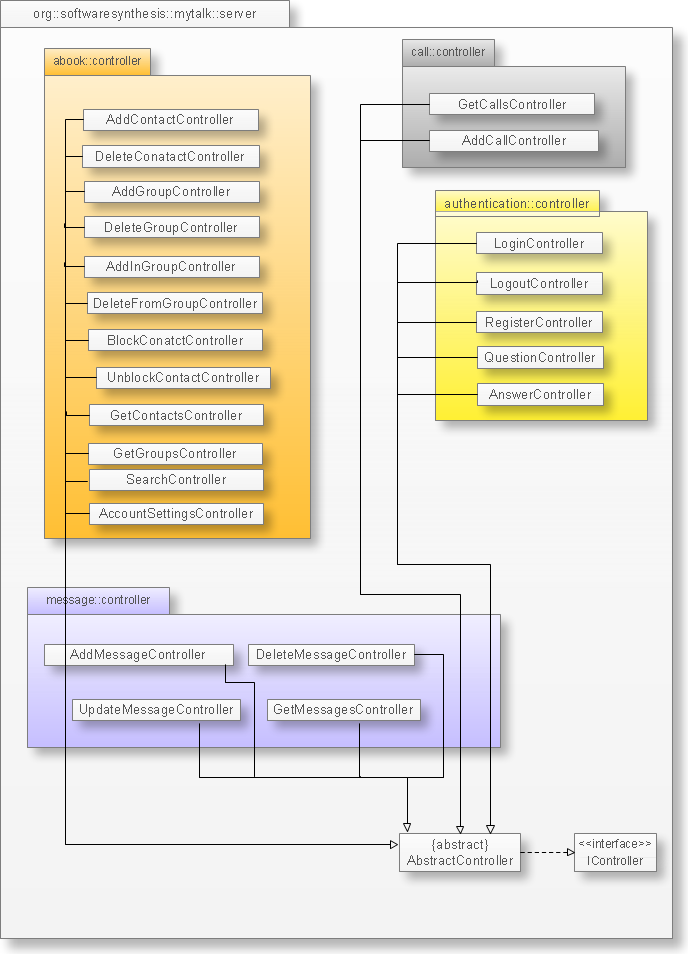
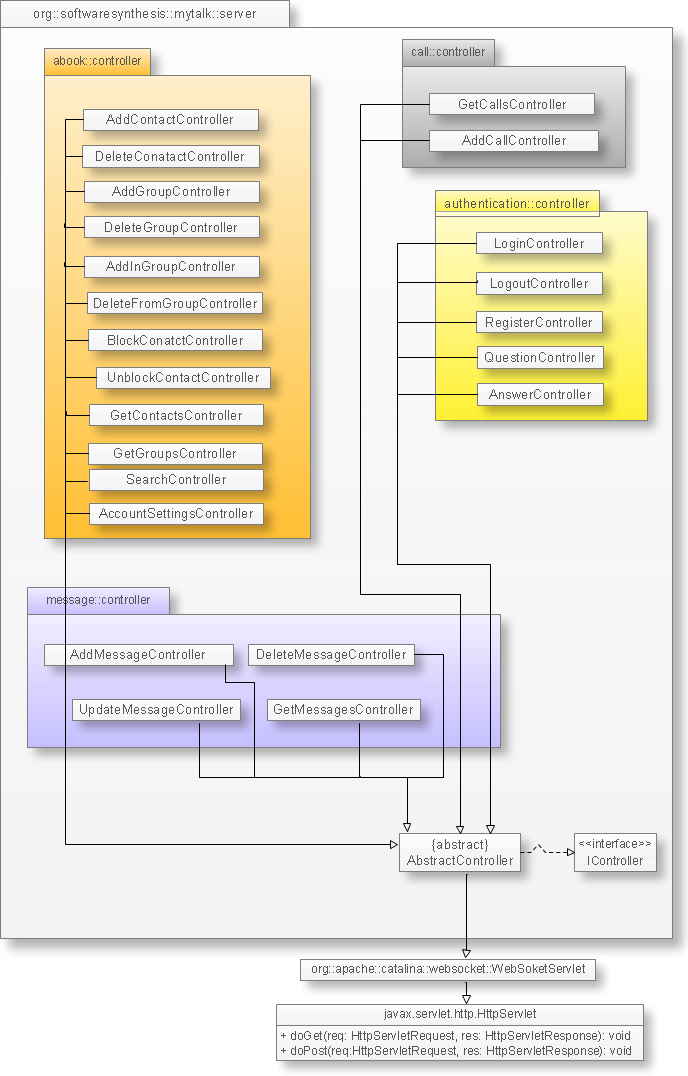
modificati diagrammi e specifica tecnica

diff --git a/Documents/specifica_tecnica/specifica_tecnica.tex b/Documents/specifica_tecnica/specifica_tecnica.tex
@@ -1038,6 +1038,8 @@ Il diagramma in figura X rappresenta l'implementazione generica del \inglese{fro
 \item{\scshape\bfseries Classi utilizzate:}\\
 	\begin{itemize}[noitemsep,nolistsep]
 	  \item[-] \texttt{ControllerManager}
+	  \item[-] \texttt{javax.servlet.http.HttpServlet}
+	  \item[-] \texttt{org.apache.catalina.websocket.WebSocketServlet}
 	\end{itemize}
 
 \end{description}
@@ -2774,7 +2776,7 @@ Questa componente della sotto-architettura server fornisce un unico punto d'acce
 
 \begin{figure}[H]
   \centering
-  \includegraphics[width=.9\textwidth]{pattern_frontcontroller}
+  \includegraphics[width=.85\textwidth]{pattern_frontcontroller}
   \caption{Applicazione del \inglese{pattern} Front Controller}\label{fig:dao}
 \end{figure}
 
